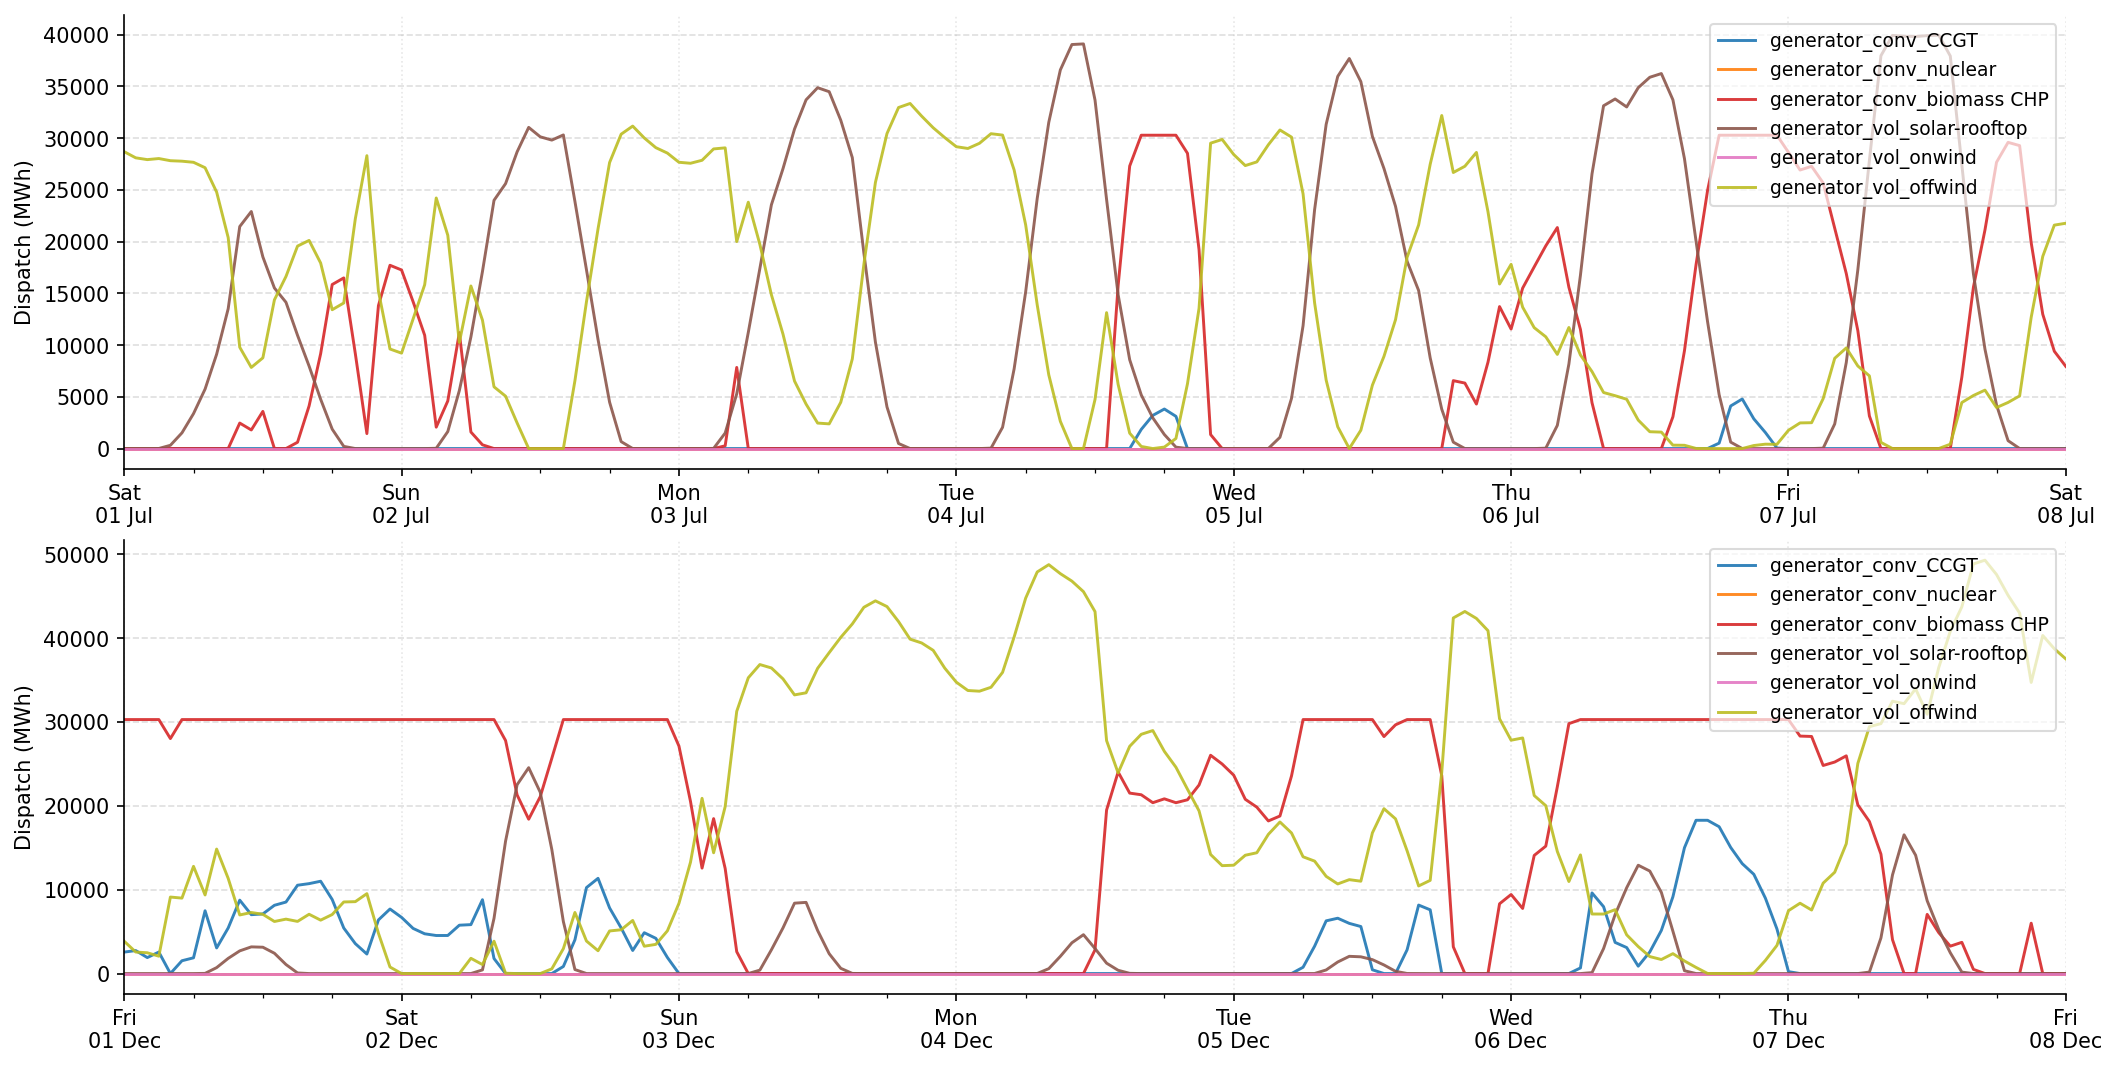
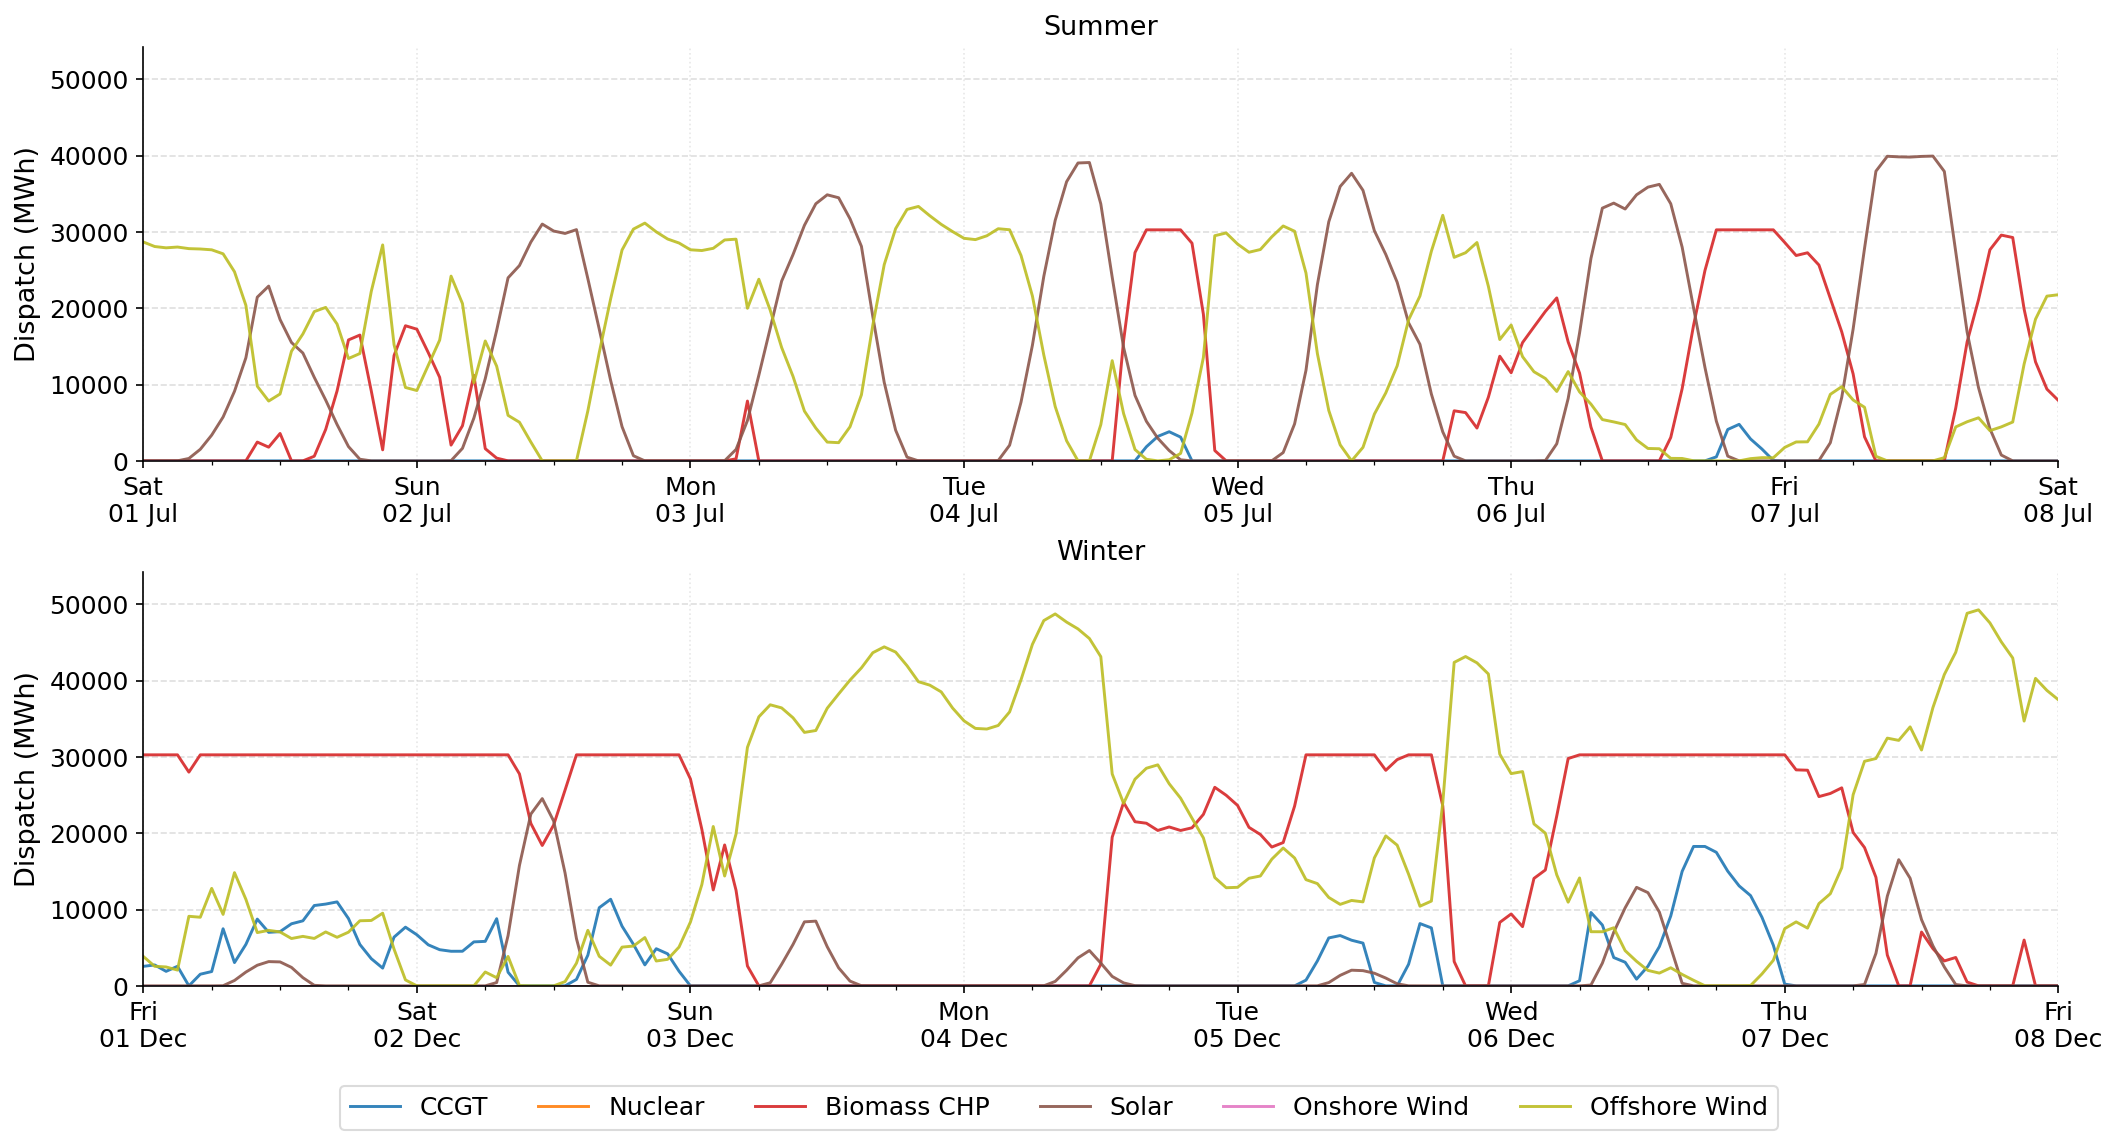
slightly updated dispatch winter/summer function in visualizer

diff --git a/src/visualizer.py b/src/visualizer.py
@@ -4,10 +4,11 @@ import matplotlib.cm as cm
 import numpy as np
 import pandas as pd
 import pypsa
+import os
 
 
 class Visualizer:
-    def __init__(self, n: pypsa.Network):
+    def __init__(self, n: pypsa.Network, scenario_name: str = ""):
         dispatch_series_dict = {}
         capacity_dict = {}
         print(n.generators.index)
@@ -16,6 +17,25 @@ class Visualizer:
             capacity_dict[gen] = n.generators.loc[gen, "p_nom_opt"]
         self.dispatch_series_dict = dispatch_series_dict
         self.capacity_dict = capacity_dict
+        self.scenario_name = scenario_name
+
+    def _make_path(self, default_name: str) -> str:
+        if self.scenario_name:
+            prefix = self.scenario_name + "_"
+        else:
+            prefix = ""
+        os.makedirs("results", exist_ok=True)
+        return f"results/{prefix}{default_name}.png"
+    
+    LABEL_MAP = {
+    "generator_conv_CCGT": "CCGT",
+    "generator_conv_nuclear": "Nuclear",
+    "generator_conv_biomass CHP": "Biomass CHP",
+    "generator_vol_solar-rooftop": "Solar",
+    "generator_vol_onwind": "Onshore Wind",
+    "generator_vol_offwind": "Offshore Wind",
+}
+
 
     def plot_dispatch_time_series(
         self,
@@ -63,24 +83,33 @@ class Visualizer:
             nrows=2, ncols=1, figsize=(14, 7), sharex=False, constrained_layout=True
         )
 
+        # create y_max to scale both y-axis the same
+        y_max = 0
+        for season_dict in [summer_dict, winter_dict]:
+            for series in season_dict.values():
+                y_max = max(y_max, series.max())
+
+        season_labels = ["Summer", "Winter"]
+
         # plot the dispatch series
         for idx, season_dict in enumerate([summer_dict, winter_dict]):
             for (label, series), color in zip(season_dict.items(), colors):
                 axes[idx].plot(
                     series.index,
                     series.values,
-                    label=label,
+                    label=self.LABEL_MAP.get(label, label),
                     color=color,
                     linewidth=1.4,
                     alpha=0.9,
                 )
-            axes[idx].set_ylabel("Dispatch (MWh)", fontsize=10)
+            axes[idx].set_ylabel("Dispatch (MWh)", fontsize=13)  # CHANGED: fontsize 10 -> 13
             axes[idx].set_xlabel("")
-            axes[idx].legend(loc="upper right", fontsize=9, framealpha=0.7)
+            axes[idx].set_title(season_labels[idx], fontsize=13)  # CHANGED: added subplot titles
+            axes[idx].set_ylim(0, y_max * 1.1)                   # CHANGED: added shared y axis limit
+            axes[idx].tick_params(axis="both", labelsize=12)      # CHANGED: added tick label fontsize
             axes[idx].grid(axis="y", linestyle="--", alpha=0.4)
             axes[idx].grid(axis="x", linestyle=":", alpha=0.3)
 
-            # Format x-axis: show day labels
             axes[idx].xaxis.set_major_locator(mdates.DayLocator())
             axes[idx].xaxis.set_major_formatter(mdates.DateFormatter("%a\n%d %b"))
             axes[idx].xaxis.set_minor_locator(mdates.HourLocator(byhour=[6, 12, 18]))
@@ -88,7 +117,15 @@ class Visualizer:
             axes[idx].set_xlim(series.index[0], series.index[-1])
             axes[idx].spines[["top", "right"]].set_visible(False)
 
-        plt.savefig(f"results/{name}.png", dpi=150, bbox_inches="tight")
+            # CHANGED: removed per-subplot legend from here
+
+        # CHANGED: replaced per-subplot legend with single shared figure legend
+        handles, labels = axes[0].get_legend_handles_labels()
+        fig.legend(handles, labels, loc="lower center", ncol=len(handles),
+                fontsize=12, framealpha=0.7, bbox_to_anchor=(0.5, -0.08))
+
+        plt.savefig(self._make_path("dispatch_summer_winter"), dpi=150, bbox_inches="tight")
+        plt.close()
 
     def plot_annual_electricity_mix(self, name="annual_electricity_mix") -> None:
         """

diff --git a/main.py b/main.py
@@ -49,7 +49,7 @@ CONFIG_D = {
 input_data_a = InputHandler(CONFIG_A)
 scenario_a = Scenario(CONFIG_A, input_data_a)
 network_BE = scenario_a.run_single_year(year=CONFIG_A['years'][0])
-visualizer_a = Visualizer(network_BE)
+visualizer_a = Visualizer(network_BE, scenario_name = 'a')
 visualizer_a.plot_dispatch_time_series(pd.Timestamp("2023-07-01"), pd.Timestamp("2023-12-01"))
 visualizer_a.plot_annual_electricity_mix()
 
@@ -57,18 +57,25 @@ visualizer_a.plot_annual_electricity_mix()
 # input_data_b = InputHandler(CONFIG_B)
 # scenario_b = Scenario(CONFIG_B, input_data_b)
 # network_BE_SA = scenario_b.run_multiple_years()
+# visualizer_a = Visualizer(network_BE, scenario_name = 'b')
+# visualizer_a.plot_dispatch_time_series(pd.Timestamp("2023-07-01"), pd.Timestamp("2023-12-01"))
+# visualizer_a.plot_annual_electricity_mix()
 
 ###Task c
 input_data_c = InputHandler(CONFIG_C)
 scenario_c = Scenario(CONFIG_C, input_data_c)
 network_BE_storage = scenario_c.run_with_storage()
-visualizer_c = Visualizer(network_BE_storage)
-visualizer_c.plot_dispatch_time_series(pd.Timestamp("2023-07-01"), pd.Timestamp("2023-12-01"), name="c_dispatch_summer_winter")
+visualizer_c = Visualizer(network_BE_storage, scenario_name='c')
+visualizer_c.plot_dispatch_time_series(pd.Timestamp("2023-07-01"), pd.Timestamp("2023-12-01"))
 visualizer_c.plot_annual_electricity_mix(name="c_annual_electricity_mix")
 
+
 ###Task d
-input_data_d = InputHandler(CONFIG_D)
-scenario_d = Scenario(CONFIG_D, input_data_d)
-network_BE_connections = scenario_d.run_multi_countries()
+# input_data_d = InputHandler(CONFIG_D)
+# scenario_d = Scenario(CONFIG_D, input_data_d)
+# network_BE_connections = scenario_d.run_multi_countries()
+# visualizer_a = Visualizer(network_BE, scenario_name = 'd')
+# visualizer_a.plot_dispatch_time_series(pd.Timestamp("2023-07-01"), pd.Timestamp("2023-12-01"))
+# visualizer_a.plot_annual_electricity_mix()
 
 print('all network optimizations were successful')
